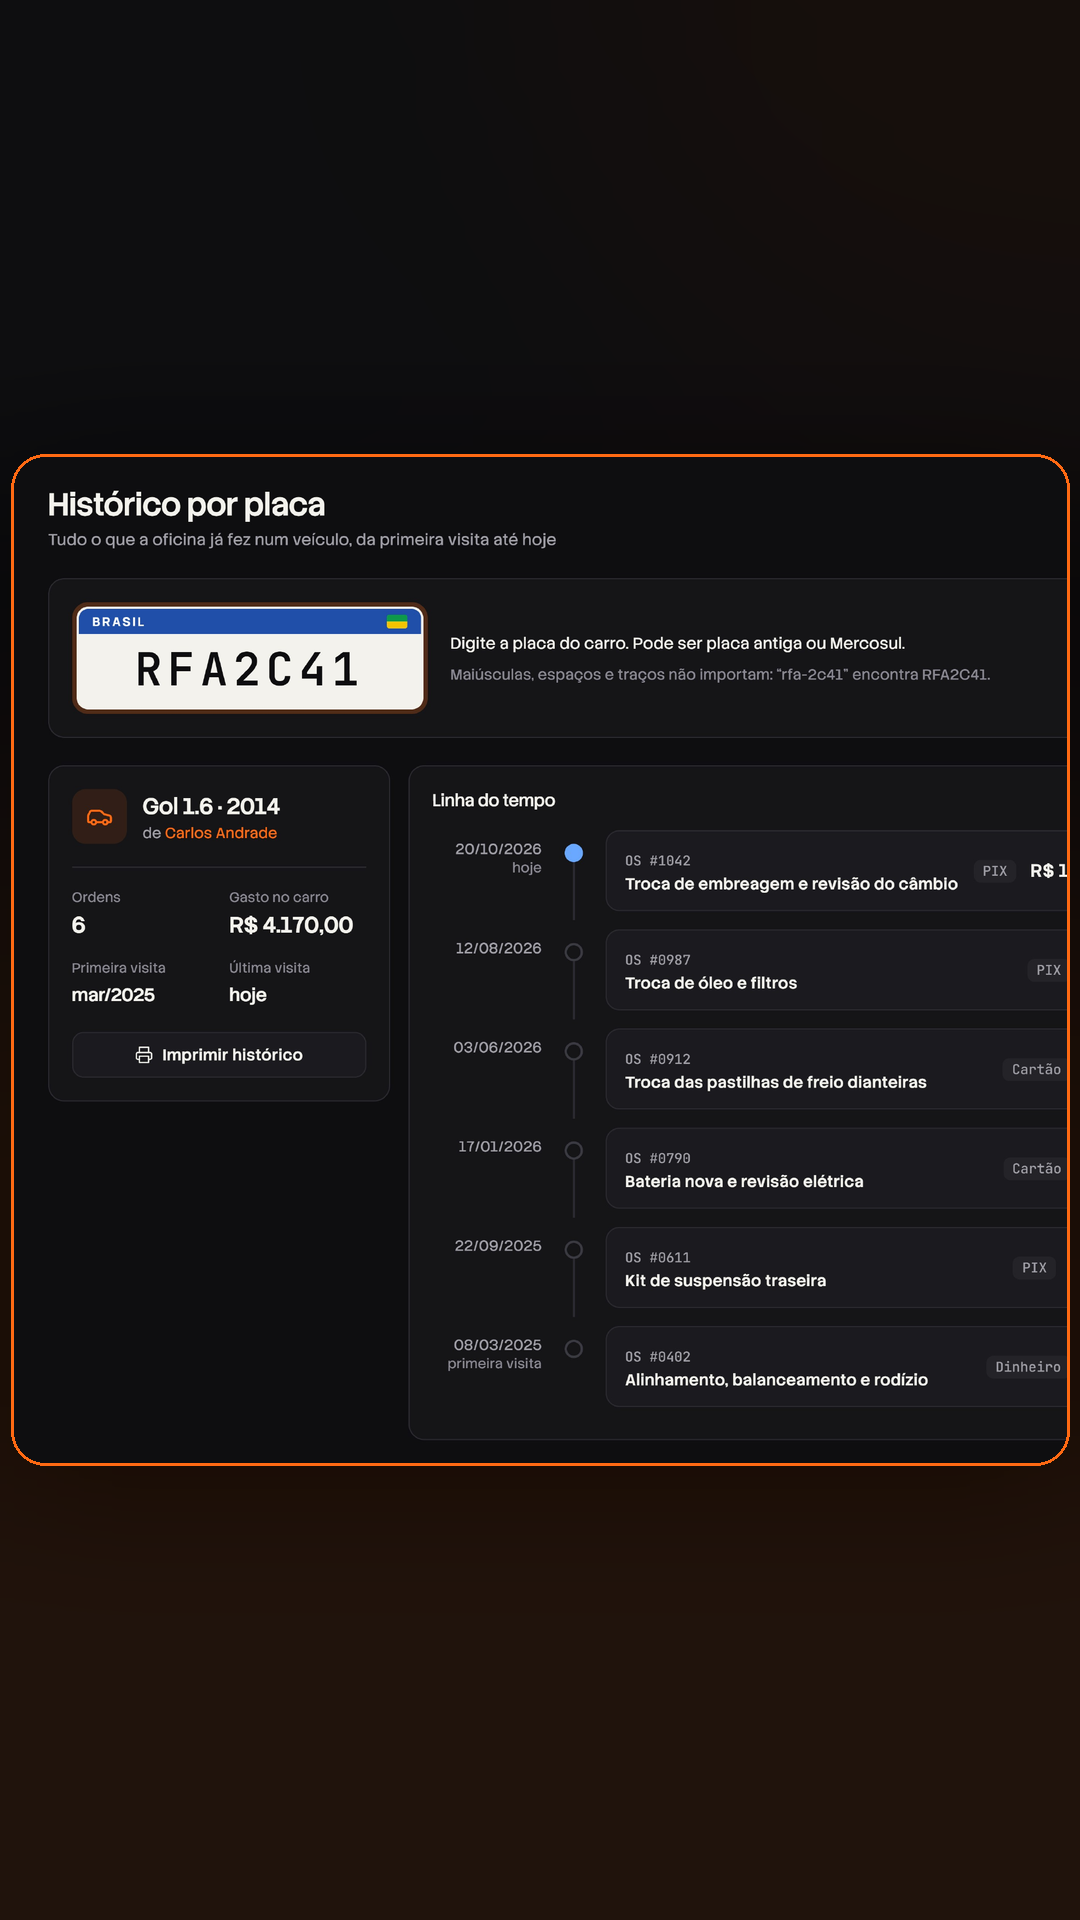
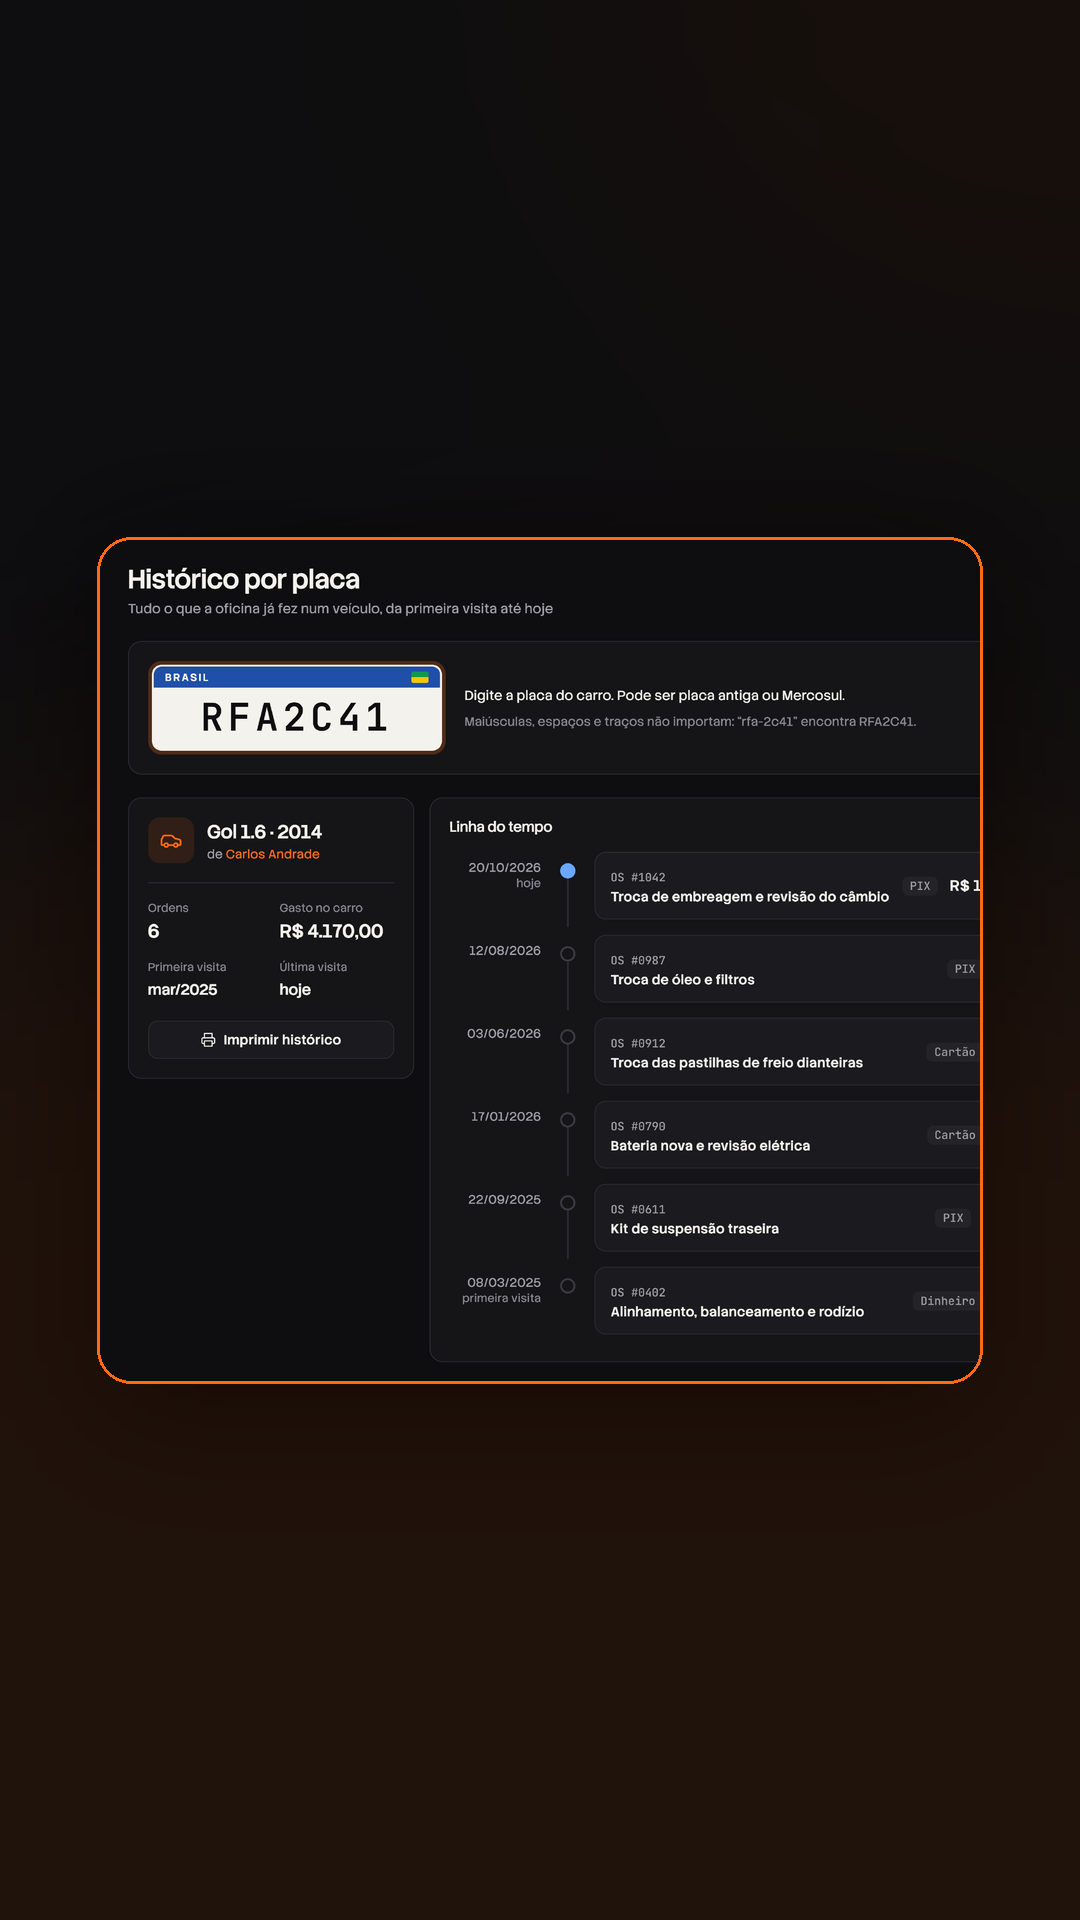
V12 e V13: corrige a quebra de linha no CTA e deixa margem para o zoom nas telas
Claude-Session: https://claude.ai/code/session_01F7BzuknXBX79z2GWgDicT3

diff --git a/motor/src/Cortes.tsx b/motor/src/Cortes.tsx
@@ -531,7 +531,11 @@ const CCta: React.FC<CP> = ({c, f, fps, n}) => {
         <Img src={staticFile((c as any).marca || `sera/${c.pose || 'confiante'}.png`)}
           style={{height: (c as any).marca ? 300 : 640, transform: `scale(${s}) translateY(${Math.sin(f / 12) * 10}px)`}} />
         <div style={{fontFamily: FT, fontSize: 120, color: '#fff', textAlign: 'center', lineHeight: 1.02, marginTop: 10, textShadow: rgb(3), padding: '0 60px'}}>
-          {(c.texto || '').split('*').map((t, i) => <span key={i} style={{color: i % 2 ? OURO : '#fff'}}>{t}</span>)}</div>
+          {/* *destaque* = cor do formato; | = quebra de linha */}
+          {(c.texto || '').split('*').map((t, i) => (
+            <span key={i} style={{color: i % 2 ? OURO : '#fff'}}>
+              {t.split('|').map((l, k) => <React.Fragment key={k}>{k > 0 && <br />}{l}</React.Fragment>)}
+            </span>))}</div>
         {fundo && (
           <div style={{marginTop: 44, padding: '24px 56px', borderRadius: 999, background: OURO, color: PRETO, fontFamily: 'InterX', fontSize: 50,
             transform: `scale(${bs * pill})`}}>{c.apoio || 'link na bio'} →</div>

diff --git a/scripts/videos_autoflow.py b/scripts/videos_autoflow.py
@@ -20,10 +20,10 @@ FIM = "\n\n"
 
 # tela real -> imagem 9:16 pronta para entrar como cena (quanto da largura a tela ocupa, e de onde recortar)
 MONTAGENS = [
- dict(saida="tela-painel.png", tela="painel_conteudo.png", largura=0.96, corte=(0, 0, 0.55, 0.70)),
- dict(saida="tela-ordens.png", tela="ordens_conteudo.png", largura=0.98, corte=(0, 0, 0.62, 1)),
- dict(saida="tela-historico.png", tela="historico_conteudo.png", largura=0.98, corte=(0, 0, 0.78, 0.95)),
- dict(saida="tela-nova-os.png", tela="nova_os_painel.png", largura=0.80, corte=(0, 0, 1, 1)),
+ dict(saida="tela-painel.png", tela="painel_conteudo.png", largura=0.82, corte=(0, 0, 0.55, 0.70)),
+ dict(saida="tela-ordens.png", tela="ordens_conteudo.png", largura=0.82, corte=(0, 0, 0.62, 1)),
+ dict(saida="tela-historico.png", tela="historico_conteudo.png", largura=0.82, corte=(0, 0, 0.78, 0.95)),
+ dict(saida="tela-nova-os.png", tela="nova_os_painel.png", largura=0.70, corte=(0, 0, 1, 1)),
 ]
 
 
@@ -44,8 +44,8 @@ def montar_telas():
         tela = tela.crop((int(x0 * tela.width), int(y0 * tela.height), int(x1 * tela.width), int(y1 * tela.height)))
         larg = int(L * m["largura"])
         tela = tela.resize((larg, max(1, round(larg * tela.height / tela.width))), Image.LANCZOS)
-        if tela.height > A * 0.78:
-            alt = int(A * 0.78)
+        if tela.height > A * 0.66:
+            alt = int(A * 0.66)
             tela = tela.resize((max(1, round(alt * tela.width / tela.height)), alt), Image.LANCZOS)
 
         cantos = Image.new("L", tela.size, 0)
@@ -89,7 +89,7 @@ VIDEOS = [
  dict(peca="V13", nome="um-dia-na-oficina", quando="2026-10-25 12:30", voz="feminina", numero=13,
       titulo="Um dia na oficina",
       cenas=[
-       {"tipo": "palavra", "texto": "UM DIA|NA|*OFICINA*", "destaque": "OFICINA",
+       {"tipo": "palavra", "texto": "UM DIA|*NA OFICINA*", "destaque": "NA OFICINA",
         "narracao": "Um dia na oficina."},
        {"tipo": "foto", "imagem": "autoflow/cenas/n-cadeado.png", "tom": "normal", "texto": "07:42",
         "narracao": "Sete e quarenta e dois: o portão sobe."},
